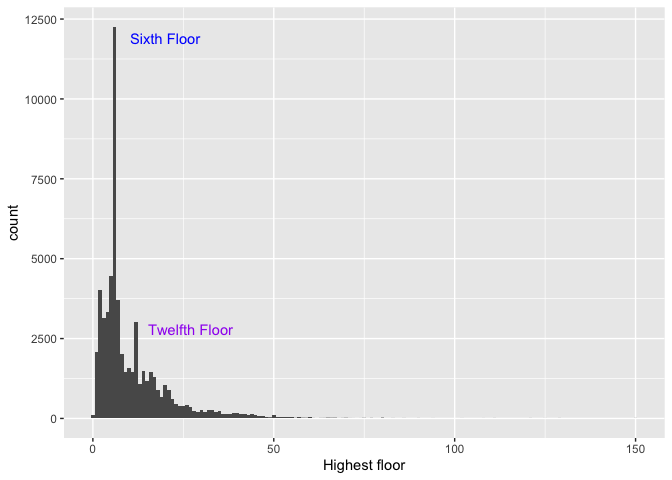
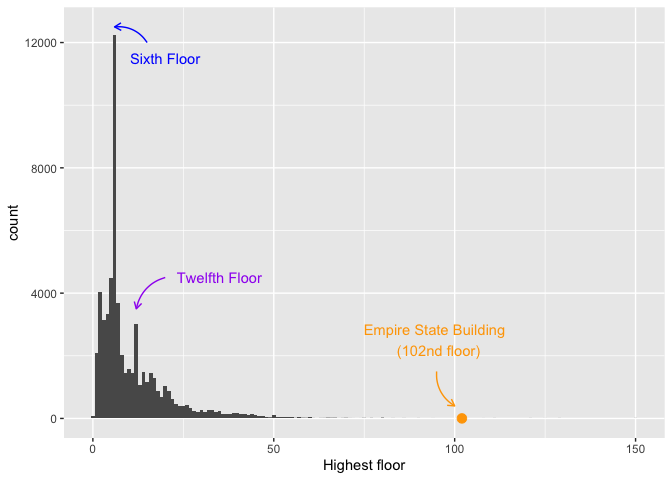
updates to README

diff --git a/README.md b/README.md
@@ -11,9 +11,10 @@
 The goal of ElevatorsNYC is to provide information about all registered
 elevator devices in New York City. As of November 2015, there are 76,088
 elevators registered in New York City. For more information about a
-specific individual elevator device, go to the NYC Department of
-Buildings Building Information Search and enter a device number in the
-Elevator Device Search.
+specific individual elevator device, go to the [NYC Department of
+Buildings Building Information
+Search](http://a810-bisweb.nyc.gov/bisweb/bispi00.jsp) and enter a
+device number in the Elevator Device Search.
 
 ## Installation
 
@@ -371,6 +372,10 @@ As of 2015, out of the five boroughs in NYC, Manhattan has the greatest
 number of elevator devices.
 
 <img src="man/figures/README-unnamed-chunk-5-1.png" width="100%" />
+
+    #> <ScaleContinuousPosition>
+    #>  Range:  
+    #>  Limits:    0 --  105
 
 Looking at distribution of NYC elevators and the floors at which they
 max out at. It is interesting to see a clear mode at 6 floors. A [New
